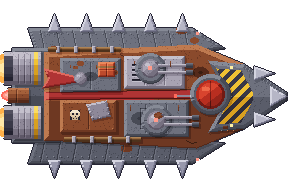
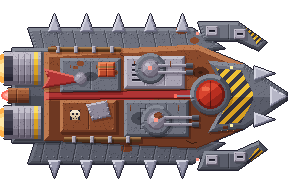
Rabble cutter: gun platforms with four hardpoints up front; enemy guns drawn on their mounts and fire from them
Claude-Session: https://claude.ai/code/session_013NFuzHRwfTbYkDqEBL2Kc9

Changed region(s): [[0.6875, 0.7188, 0.9375, 0.9062], [0.6875, 0.0938, 0.9375, 0.2812]]

diff --git a/tools/dev/ship_art/rabble_cutter_2x.py b/tools/dev/ship_art/rabble_cutter_2x.py
@@ -148,7 +148,27 @@ def cutter():
     p.engrave([(99, 69), (113, 69)]); p.engrave([(106, 63), (106, 75)])
     p.paint(p.mask(rect=(97, 66, 115, 67)), "strap")
     p.paint(p.mask(rect=(176, 95, 190, 96)), "metal"); p.glow(p.mask(rect=(174, 94, 176, 97)), "glow_red", 2)
+    # gun platforms bolted on at the front, top and bottom (Zachary, 21 Nov: "stick the weapons on the side maybe up
+    # front in these spaces"); two hardpoints each, where the game puts whatever guns the ship spawns with
+    for top in (True, False):
+        def f(pts):
+            return pts if top else [(x, 191 - y) for x, y in pts]
+        p.bevel(p.mask(polygon=f([(198, 22), (238, 22), (266, 42), (258, 50), (236, 40), (204, 40)])), "gunmetal",
+                width=3, face=4 if top else 3, shade_lower=False)
+        p.engrave(f([(228, 24), (228, 38)]))
+        hazard(p, p.mask(polygon=f([(244, 25), (250, 25), (262, 40), (257, 44)])), step=3)
+        for (mx, my) in MOUNTS:
+            my = my if top else 191 - my
+            p.bevel(p.mask(rect=(mx - 6, my - 5, mx + 5, my + 4)), "metal", width=1, face=4, shade_lower=False)
+            p.slot(mx - 3, my - 1, mx + 2, my)
+            for (rx, ry) in ((mx - 5, my - 4), (mx + 4, my - 4), (mx - 5, my + 3), (mx + 4, my + 3)):
+                p.rivet(rx, ry)
     return p
+
+
+# Weapon hardpoints on the top platform, art px (the bottom ones mirror them). The game's "mounts" are these over 2,
+# front ones first: top front, bottom front, top back, bottom back.
+MOUNTS = [(240, 34), (212, 31)]
 
 # Rooms and doors: must match ShipData.ENEMIES["rabble_cutter"] in scripts/ship_data.gd (cells of 24 game px,
 # 48 art px). Engines at the back, the cockpit under the red bubble, turrets over the weapons and oxygen rooms.

diff --git a/docs/SHIP_ART_UI.md b/docs/SHIP_ART_UI.md
@@ -154,6 +154,11 @@ in the middle of that cell (`kit2x.console_at()` and `ShipBattle._console_at()` 
 **Doors: only as many as the layout needs** (Zachary, 21 Nov: "you dont need to have so many doors"). Every room
 must be reachable, but most rooms don't need a door on every shared wall. The cutter is a compact block, so its eight
 doors are fine; bigger ships should use fewer, more like FTL's corridors and chokepoints.
+**Guns go on hardpoints outside the rooms** (Zachary, 21 Nov: "stick the weapons on the side maybe up front"). The
+cutter has a gun platform bolted on at the front, top and bottom, with two hardpoints each; the ship's `"mounts"` list
+them in the order guns fill them (top front, bottom front, top back, bottom back). Whatever guns a ship spawns with go
+on the first mounts, the game draws them there (mirrored with the ship, pointing at you), and their shots leave from
+them. Every ship gets hardpoints like this, enough for the most guns it can carry.
 
 **For the rest:** each ship gets FTL-simple rooms and doors the same way, and the battle screen uses its
 `art_scale` (2 for these): the picture is fitted on its art pixels, while rooms, crew and the drone stay in 24-px cell
